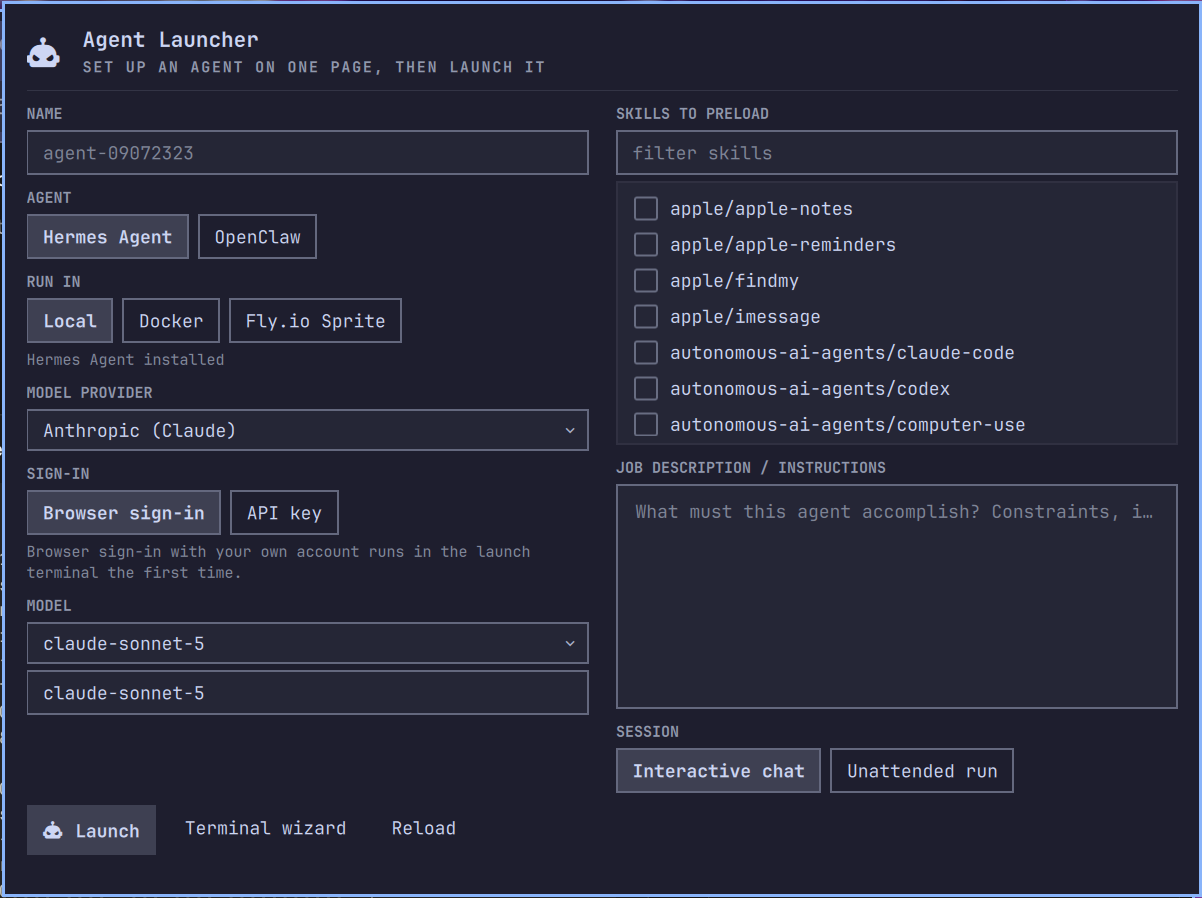
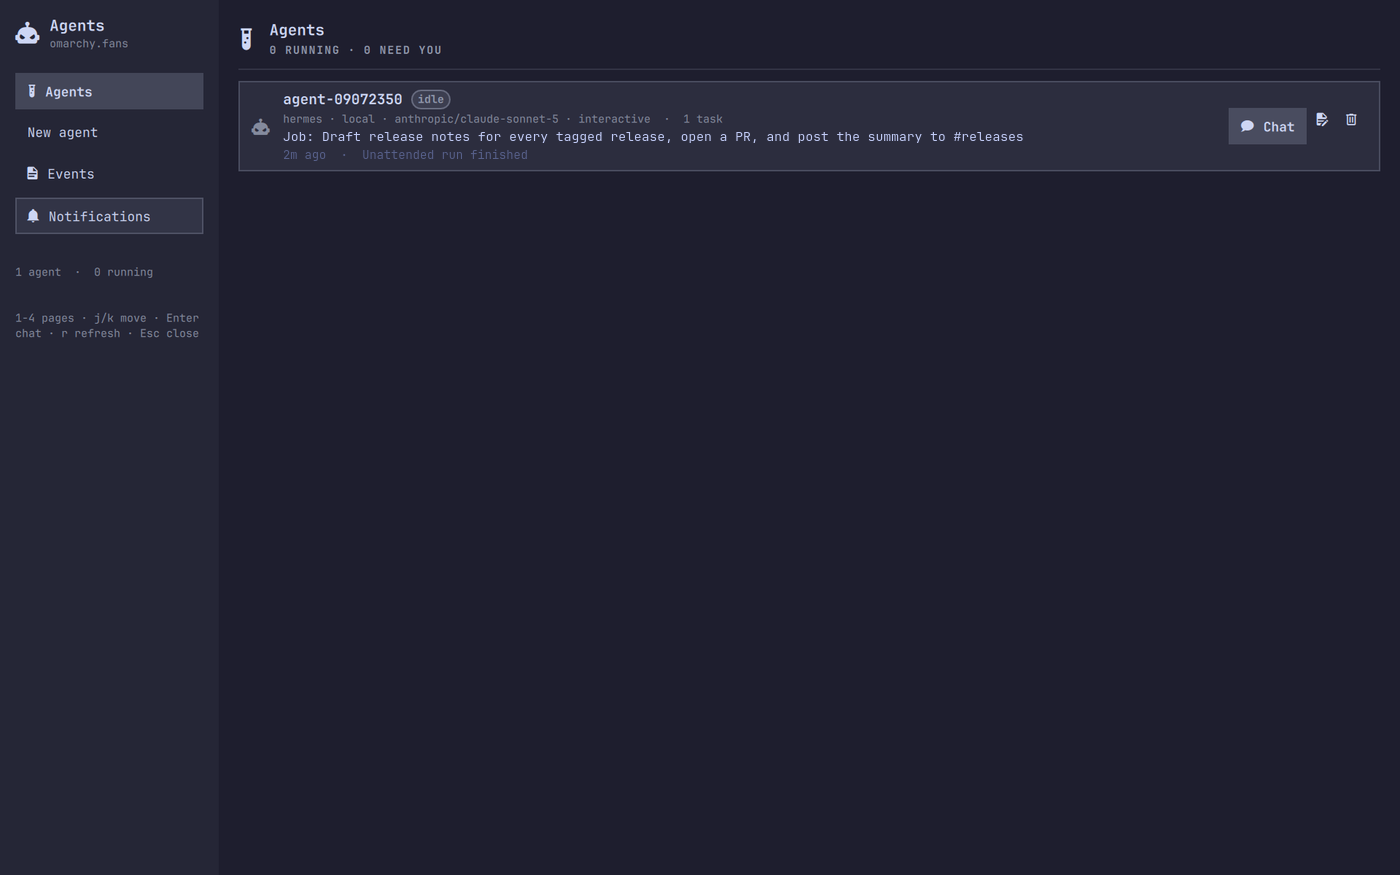
Menu entries for the dashboard and switcher, README for 0.5, dashboard preview
Claude-Session: https://claude.ai/code/session_01NeShEP8AxPyxUsbg9zX5mg

diff --git a/README.md b/README.md
@@ -1,14 +1,27 @@
 # Omarchy Agent Launcher
 
-**Spin up an AI agent from a keybinding.** Press a key, fill in one page,
-click Launch, and an agent starts working on the job you gave it: in a shell
-on your machine, inside its official Docker image, or on a [Fly.io
-Sprite](https://fly.io/sprites) in the cloud.
+**Run AI agents from your desktop.** Press a key and the **Agent Dashboard**
+opens: create and launch an agent on one page, see every agent's status, jump
+to any agent's chat, follow a sortable event log, and get notified when an
+agent needs you. Agents run in a shell on your machine, inside their official
+Docker image, or on a [Fly.io Sprite](https://fly.io/sprites) in the cloud.
 
-![The setup panel](preview.png)
+![The Agent Dashboard](preview.png)
 
-The single-page setup panel (a native Omarchy shell panel that drops down
-from the bar button) asks for:
+The dashboard is a persistent window (it stays until you close it) with four
+pages, switchable with `1`–`4`:
+
+| Page | What it shows |
+|------|---------------|
+| **Agents** | every saved agent with a status pill (running / blocked / done / idle), its job, last event, task count, and **Chat**, Stop, Edit job, Remove. Enter or Chat focuses the agent's window or reattaches its session. |
+| **New agent** | the one-page setup form (below) |
+| **Events** | the event log: filter by agent, task, level, or text; click a column header to sort |
+| **Notifications** | open blockers (things that need you) with Chat and Resolve, recent warnings, and the desktop-notification toggle |
+
+The bar button opens the dashboard; right-click opens a quick agent switcher;
+a red badge counts open blockers.
+
+The **New agent** page asks for:
 
 | Step | Choices |
 |------|---------|
@@ -63,18 +76,25 @@ runtime:
   `/home/sprite`, Node/Python/git preinstalled) that sleeps when idle and
   keeps its filesystem; you pay for CPU and RAM only while it is awake.
 
-### Keybinding (recommended)
+### Keybinding and window rule (recommended)
 
 Plugins cannot ship keybindings, so add one line to `~/.config/hypr/bindings.lua`
-(SUPER + ALT + A is unbound by default). It toggles the panel, so the widget
-must be enabled:
+(SUPER + ALT + A is unbound by default). It summons the dashboard, so the
+widget must be enabled:
 
 ```lua
 o.bind("SUPER + ALT + A", "Agent dashboard", "omarchy-shell shell summon fans.omarchy.agent-launcher '{}'")
 ```
 
+The dashboard is a Quickshell window (class `org.quickshell`); Omarchy tiles it
+unless you add a rule to `~/.config/hypr/looknfeel.lua`:
+
+```lua
+o.window({ class = "^org.quickshell$", title = "^Agent Dashboard$" }, { float = true, center = true, size = { 1180, 760 } })
+```
+
 Prefer a terminal? The same setup exists as step-by-step prompts:
-`omarchy-agent-launcher --popup new` (also the panel's "Terminal wizard" button).
+`omarchy-agent-launcher --popup new` (also the form's "Terminal wizard" button).
 
 Hyprland reloads on save; verify with `hyprctl configerrors`.
 
@@ -86,9 +106,10 @@ submenu (new / relaunch / manage) in the Omarchy menu.
 
 ### `install.sh` (optional helper)
 
-The repo also carries a small helper that does the three optional steps for
-you, each only after you confirm: symlink the CLI into `~/.local/bin`, append
-the keybinding, append the menu entry. It is not run by `omarchy plugin add`.
+The repo also carries a small helper that does the optional steps for you,
+each only after you confirm: symlink the CLI into `~/.local/bin`, add the
+keybinding, add the window rule, add the menu entries. It is not run by
+`omarchy plugin add`, and it upgrades an older keybinding line in place.
 
 ```bash
 ~/.config/omarchy/plugins/fans.omarchy.agent-launcher/install.sh
@@ -96,12 +117,12 @@ the keybinding, append the menu entry. It is not run by `omarchy plugin add`.
 
 ## Use
 
-Press the key (or click the bar button). Fill in the page and click
-**Launch**: the agent's profile is saved, its home directory is provisioned,
-and a terminal opens with the session (and the browser sign-in, the first
-time). Saved agents appear at the bottom of the panel for one-click relaunch;
-**Manage…** opens show / edit job / sign in again / remove / destroy / sprite
-console. Esc closes the panel; Tab enters the form.
+Press the key (or click the bar button). On **New agent**, fill in the page
+and click **Launch**: the profile is saved, the agent's home is provisioned,
+and its window opens with the session (and the browser sign-in, the first
+time). The dashboard switches to **Agents**, where the new row shows its
+status; **Chat** brings its window back at any time. Esc closes the dashboard,
+`j`/`k` move, Enter opens the selected agent's chat, `r` refreshes.
 
 From a terminal:
 
@@ -179,7 +200,18 @@ omarchy-agent-launcher event "$OAL_AGENT" blocker_cleared "" --key need-the-depl
 
 A **task** is the agent's job (first line of the job description), any `--task`
 name seen in its events, and, for Hermes agents, the cards on the agent's own
-kanban board (see below). `status --json` returns all of it per agent.
+kanban board. `status --json` returns all of it per agent.
+
+### Hermes kanban boards
+
+Hermes Agent keeps a SQLite task board at its home directory. Each launched
+Hermes agent has its own isolated home, so it has its own board
+(`…/agents/<name>/hermes/kanban.db`). Inside its session the agent can run
+`hermes kanban create|complete|block …` (its `HERMES_HOME` is already set) and
+the launcher mirrors the board **read-only**: cards appear as tasks, status
+changes become events, and a card blocked as `needs_input` or `capability`
+becomes a blocker until it is completed. The mirror runs whenever the
+dashboard refreshes and when a session ends; it never writes to the board.
 
 ### Models and prices
 
@@ -198,6 +230,8 @@ models are shown (default 14).
 
 Built on Omarchy 4.x with Hermes Agent 0.21 installed locally.
 
+- ✅ The dashboard: loads in the shell, persists when focus moves elsewhere, all four pages render with live data; Stop, Chat, Resolve, and the blocker badge were exercised.
+- ✅ Kanban mirror: fixture board → tasks in `status --json`, blocker on a `needs_input` card, idempotent re-sync, blocker cleared when the card completes.
 - ✅ Persistent sessions: a launched agent's window was killed outright; its tmux session survived and `chat` reopened a window attached to the same running conversation. Opening it twice focuses the existing window instead of duplicating it.
 - ✅ The setup panel: loads in the shell, reads live data from `info --json`, and renders every control (screenshot above is a real capture). Its Launch path was exercised piecewise: the environment handoff (`Process.environment` overlays, PATH intact) and the no-terminal `create … --launch` branch, which opened the floating launch terminal and surfaced a runtime error there. Keyboard entry into fields follows hyprmoncfg's proven KeyboardPanel pattern but was not typed into by hand.
 
@@ -215,10 +249,14 @@ Built on Omarchy 4.x with Hermes Agent 0.21 installed locally.
   the Sprites CLI takes its token as an argument once, at `sprite auth setup`.
 - `sudo` appears exactly once: `sudo docker …` when Omarchy's
   `omarchy-sudo-docker` says the daemon needs it.
-- The panel (`AgentPanel.qml`) only runs the plugin's own script: `info
-  --json` to read choices and `create … --launch` to submit. The API key and
-  the job text travel in that child's environment, never on a command line,
-  and the key is written once to the mode-600 secrets file.
+- The dashboard (`Dashboard.qml`, `components/`) only runs the plugin's own
+  script (`status --json`, `info --json`, `create … --launch`, `chat`, `stop`,
+  `event`, `remove --yes`, `settings`) with argv, never a shell string, and
+  tails the event log with `tail -F`. The API key and the job text travel in
+  the child's environment, never on a command line; the key is written once to
+  the mode-600 secrets file.
+- Kanban boards are opened with `sqlite3 -readonly`. Desktop notifications go
+  through `omarchy-notification-send`.
 
 ## Remove
 
@@ -227,9 +265,10 @@ omarchy plugin remove fans.omarchy.agent-launcher
 ```
 
 Then, if you used them: delete the `o.bind` line from
-`~/.config/hypr/bindings.lua`, the `agents.*` entries from
-`~/.config/omarchy/extensions/omarchy-menu.jsonc`, and the symlink
-`~/.local/bin/omarchy-agent-launcher` (`./uninstall.sh` does all three).
+`~/.config/hypr/bindings.lua`, the window rule from `~/.config/hypr/looknfeel.lua`,
+the `agents.*` entries from `~/.config/omarchy/extensions/omarchy-menu.jsonc`,
+and the symlink `~/.local/bin/omarchy-agent-launcher` (`./uninstall.sh` does all
+four). Event history lives in `~/.local/state/omarchy-agent-launcher/`.
 Saved agents and secrets stay in `~/.config/omarchy-agent-launcher/` and
 `~/.local/share/omarchy-agent-launcher/` until you delete them; `destroy`
 removes remote containers and sprites first.

diff --git a/SUBMISSION-body.md b/SUBMISSION-body.md
@@ -16,7 +16,7 @@ _No response_
 
 ### Maintainer notes
 
-Bar widget with a single-page Quickshell setup panel (plus a terminal wizard) that launches Hermes Agent or OpenClaw locally, in Docker, or on a Fly.io Sprite, with per-agent isolated homes. The QML panel only runs the plugin's own script (`info --json`, `create --launch`); all agent logic is bash inside the plugin folder (bin/, lib/). PanelDropdown.qml is copied from crmne.hyprmoncfg (MIT, attributed). `sudo` appears once (`sudo docker` when omarchy-sudo-docker says the daemon needs it). The Sprite bootstrap clones Hermes at a pinned 40-character commit and installs OpenClaw from npm; nothing is curl-piped into a shell. API keys are stored in a mode-600 file under ~/.config and never passed on a command line. The optional install.sh only appends a keybinding / menu entry after an explicit y/N prompt and takes backups.
+Bar widget plus a persistent Quickshell dashboard window (panel kind, keepLoaded) that creates and launches Hermes Agent or OpenClaw locally, in Docker, or on a Fly.io Sprite, with per-agent isolated homes, shows every agent's status, a sortable event log, and blockers (also sent as Omarchy notifications). Sessions persist in tmux. The QML only runs the plugin's own script (`status --json`, `info --json`, `create --launch`, `chat`, `stop`, `event`) via argv and tails a JSONL log; all agent logic is bash inside the plugin folder (bin/, lib/). Hermes kanban boards are read with `sqlite3 -readonly`. PanelDropdown.qml is copied from crmne.hyprmoncfg (MIT, attributed). `sudo` appears once (`sudo docker` when omarchy-sudo-docker says the daemon needs it). The Sprite bootstrap clones Hermes at a pinned 40-character commit and installs OpenClaw from npm; nothing is curl-piped into a shell. API keys are stored in a mode-600 file under ~/.config and never passed on a command line. The optional install.sh only appends a keybinding / menu entry after an explicit y/N prompt and takes backups.
 
 ### Submission checklist
 
